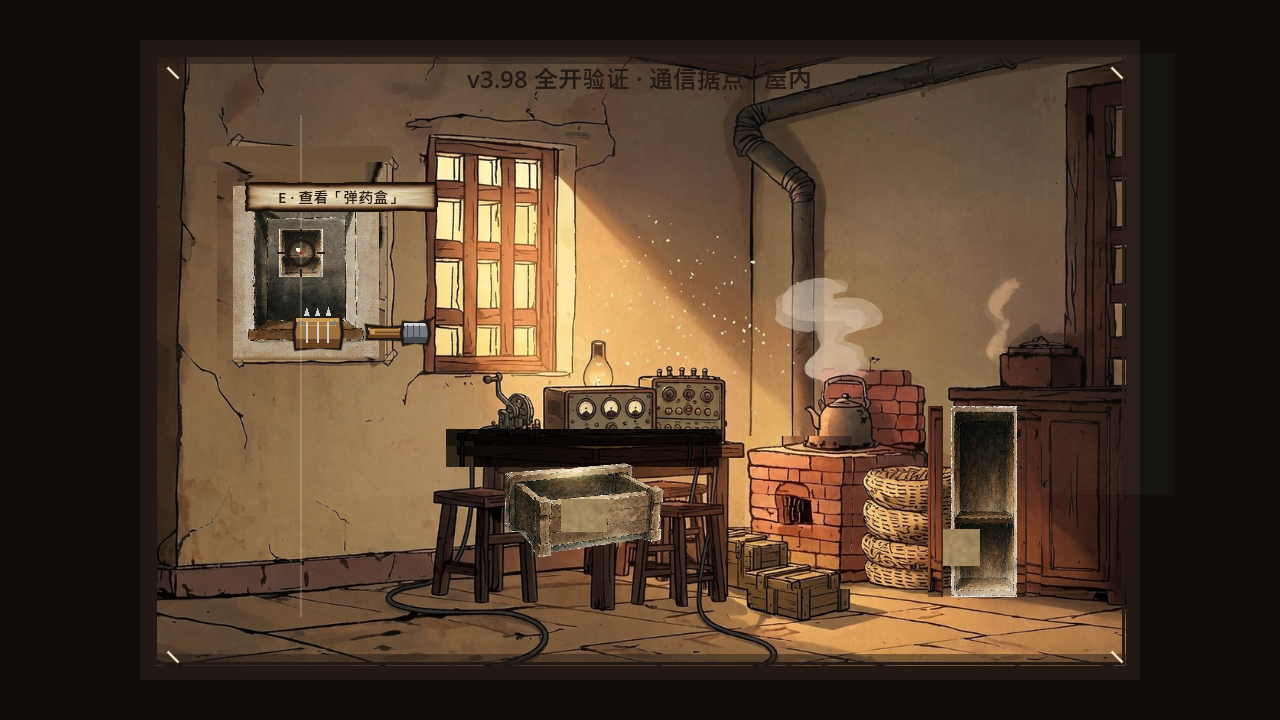
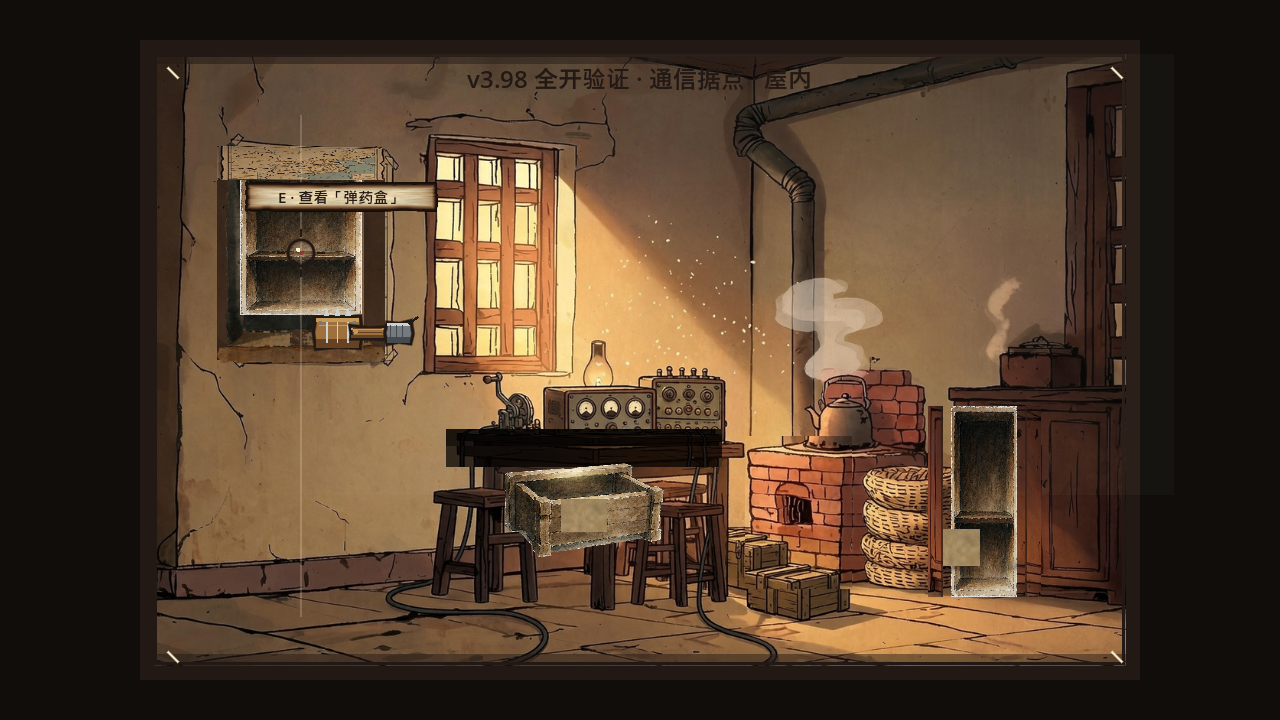
v4.00 挂画三点反馈修正：天杆对齐 + 整幅等比压缩成一卷使天杆地杆黏合 + 纯洞贴图消除长方格色差

Changed region(s): [[0.1562, 0.1833, 0.3438, 0.5194]]

diff --git a/scripts/InteriorExplore.cs b/scripts/InteriorExplore.cs
@@ -981,6 +981,10 @@ public partial class InteriorForeground : Control
     private static Texture2D _wallNicheTex;
     private static Texture2D _drawerBoxTex;
     private static Texture2D _cabinetInteriorTex;
+    // v4.00：纯洞体贴图（从 wall_niche 抠掉外围浅米墙底纸，只留墙上凿出的洞）。
+    // 用户反馈：整张 wall_niche 铺上去=暖黄墙上贴了块浅米方格，违背「暗格是墙上凿的洞、跟墙一体」。
+    // 纯洞贴图直接嵌进真实墙（墙由 wallDst 1:1 采样相邻墙补齐），读作一体墙洞、无方格边。
+    private static Texture2D _wallHoleTex;
 
     public InteriorForeground(InteriorRoom room)
     {
@@ -997,6 +1001,7 @@ public partial class InteriorForeground : Control
         _shadowTex ??= GD.Load<Texture2D>("res://assets/art/interior/contact_shadow.png");
         // v3.98：开态三张真实手绘贴图（壁龛 / 抽屉盒 / 柜内），缺文件时不画、保持关态完整
         _wallNicheTex ??= GD.Load<Texture2D>("res://assets/art/interior/wall_niche.png");
+        _wallHoleTex ??= GD.Load<Texture2D>("res://assets/art/interior/wall_niche_hole.png");
         _drawerBoxTex ??= GD.Load<Texture2D>("res://assets/art/interior/drawer_box.png");
         _cabinetInteriorTex ??= GD.Load<Texture2D>("res://assets/art/interior/cabinet_interior.png");
         // v3.84：柜门 / 画心裁片直接取同一张背景贴图，不新增美术资产
@@ -1120,8 +1125,18 @@ public partial class InteriorForeground : Control
             float w = IntactSpec.TryGetValue(it.Kind, out var sp) ? sp.w : 44f;
             int rows = Mathf.CeilToInt(total / 2f);
             float spread = total <= 1 ? 0f : Mathf.Max(20f, w * 0.58f);
+            // v3.99 挂画：暗格改为画框中心一个盒子大小的洞（见 DrawPictureNiche），
+            // 落点必须同步到「新洞中心」且收窄横向错位，否则物品会越出洞口右侧（用户反馈）。
+            if (!IsBurnt && f.Type == FurnitureType.PictureFrame
+                && FrontSrc.TryGetValue((_room.Type, FurnitureType.PictureFrame), out var psrc))
+            {
+                var frameDst = BgRect(psrc);
+                rc = new Vector2(frameDst.Position.X + frameDst.Size.X * 0.5f,
+                                 frameDst.Position.Y + frameDst.Size.Y * 0.5f);
+                spread = total <= 1 ? 0f : Mathf.Min(16f, frameDst.Size.X * 0.14f);
+            }
             Vector2 p = rc + new Vector2((k % 2 == 0 ? -spread : spread),
-                                         (k / 2 - (rows - 1) * 0.5f) * 30f);
+                                         (k / 2 - (rows - 1) * 0.5f) * 26f);
             // 柜子：物品落底层（隔板以下），不顶第二层底
             if (!IsBurnt && f.Type == FurnitureType.Cabinet)
             {
@@ -1317,6 +1332,34 @@ public partial class InteriorForeground : Control
             ? new Rect2(45f, 210f, 65f, 250f)
             : new Rect2(90f, 150f, 80f, 320f);
 
+    /// <summary>v4.00：卷起挂画后，用「画框紧邻的真实墙」1:1 采样覆盖背景里画死的静止画。
+    /// 旧做法 WallPatchSrc 取 65×250 / 80×320 小块「拉伸」铺满整框，纹理密度被放大、又乘 0.95 压暗，
+    /// 与四周墙形成明显色差的长方格（用户 img4）。改为从框外同高墙带 1:1 平铺（不缩放不压暗），
+    /// 上下边缘羽化，读作同一面墙的延续、无色差方格边。</summary>
+    private void DrawWallCover(Rect2 dst, Rect2 frameSrc)
+    {
+        if (_roomTex == null || dst.Size.X <= 1f || dst.Size.Y <= 1f) return;
+        // 采样带：画框紧邻的干净真墙，高度与画框等高 ⇒ 纵向 1:1（不拉伸、不变纹理密度）。
+        // 住家框 src.x=190 宽140 → 取左侧 x44..140；据点框 src.x=100 宽220 → 取左侧 x2..98。
+        // 横向不够宽则多片平铺；源带不压暗（1.0f），与四周墙同色温，杜绝色差方格。
+        float sw = 96f;
+        Rect2 band = _room.Type == RoomType.CommOutpost
+            ? new Rect2(2f, 120f, sw, frameSrc.Size.Y)
+            : new Rect2(44f, 60f, sw, frameSrc.Size.Y);
+        float tileW = sw * InteriorRoom.BgScale;          // 每片覆盖的画布宽
+        int nx = Mathf.Max(1, Mathf.CeilToInt(dst.Size.X / tileW));
+        for (int ix = 0; ix < nx; ix++)
+        {
+            float cx = dst.Position.X + ix * tileW;
+            float cw = Mathf.Min(tileW, dst.Position.X + dst.Size.X - cx);
+            if (cw <= 0f) break;
+            float srcW = sw * (cw / tileW);               // 源宽按目标比例裁，保持 1:1 纹理密度
+            var srcRect = new Rect2(band.Position.X, band.Position.Y, srcW, band.Size.Y);
+            var dstRect = new Rect2(cx, dst.Position.Y, cw, dst.Size.Y);
+            DrawTextureRectRegion(_roomTex, dstRect, srcRect, new Color(1f, 1f, 1f, 1f));
+        }
+    }
+
     /// <summary>桌子「抽屉」拉出量：把自身桌裙纹理向下平移的距离。
     /// DrawFurnitureFront 与 DrawContainerItems 共用，避免两处公式漂移导致物品落点错位。</summary>
     private float DeskPullH(Furniture f, Rect2 dd)
@@ -1345,30 +1388,49 @@ public partial class InteriorForeground : Control
         return new Rect2(x, top, boxW, boxHeight);
     }
 
-    /// <summary>v3.98：挂画后的壁龛 = 真实手绘贴图 wall_niche（互动卷起后显现，不再是程序化平涂方块）。
-    /// 用户拍板 B 方案：贴图铺在整幅画框背后、边缘渐隐融入手绘墙，龛口正对藏物落点。
-    /// 暗格藏 ≥2 件时在龛内叠一张缩小的 cabinet_interior 双格内衬 = 「里面有多样物品不止一样」。</summary>
+    /// <summary>v3.99：挂画后的暗格 = 墙上凿出的「一个盒子大小」的洞，不再是铺满画框的竖长深井。
+    /// 用户 2026-11-15：暗格空间不用那么长那么大、约一个中性盒子的长度即可、宽度没问题。
+    /// 暗格藏 ≥2 件时在洞内叠一张缩小的 cabinet_interior 双格内衬 = 「里面有多样物品不止一样」。</summary>
     private void DrawPictureNiche(Furniture f, Rect2 r, float a)
     {
-        // 龛贴图铺在「整个画框」背后：wall_niche 自带墙面 + 凹龛，边缘已渐隐，
-        // 既能盖掉背景贴图里画死的静止画，又与四周手绘墙同笔触（用户：纯色 vs 手绘格格不入）。
         if (FrontSrc.TryGetValue((_room.Type, FurnitureType.PictureFrame), out var psrc))
         {
             var frameDst = BgRect(psrc);
-            if (_wallNicheTex != null)
-                DrawTextureRect(_wallNicheTex, frameDst, false, new Color(1f, 1f, 1f, a));
+            // 宽度沿用整个画框宽（用户：宽度没问题）；高度收到「一个盒子长度」= 宽×1.32，
+            // 以画框中心定位 ⇒ 挂画放下时能被完整遮住、卷起时正对藏物落点。
+            // 不再把 793×1137 的贴图铺满 140×460 的画框（那会把洞口拉成 3.5:1 的深井）。
+            float boxW = frameDst.Size.X;
+            float boxH = boxW * 1.32f;
+            var box = new Rect2(frameDst.Position.X,
+                                frameDst.Position.Y + (frameDst.Size.Y - boxH) * 0.5f,
+                                boxW, boxH);
+            // v4.00：改用「纯洞体」贴图 —— wall_niche 原图自带一整圈浅米墙底纸，整张铺上去
+            // 等于在暖黄墙上贴了块浅米方格（用户 img4：长方格颜色跟墙明显不同、格格不入）。
+            // wall_niche_hole 已离线抠掉纸底、只留墙上凿出的洞；外围露出的墙由 wallDst 1:1 采样
+            // 相邻真墙补齐 ⇒ 洞与墙一体，无方格边。box 比贴图 bbox 略放大以贴合洞口实际占比。
+            if (_wallHoleTex != null)
+            {
+                // 贴图洞体 bbox 约为整张 x[149..688]/793, y[314..1031]/1137 → 居中裁掉透明边再铺进 box
+                var holeSrc = new Rect2(149f, 314f, 688f - 149f, 1031f - 314f);
+                DrawTextureRectRegion(_wallHoleTex, box, holeSrc, new Color(1f, 1f, 1f, a));
+            }
+            else if (_wallNicheTex != null)
+                DrawTextureRect(_wallNicheTex, box, false, new Color(1f, 1f, 1f, a));
             else
-                DrawTexRecess(frameDst, WallPatchSrc(), 0.5f, a); // 贴图缺失兜底
-        }
-        // 多物品语义：暗格藏 ≥2 件 → 龛内叠缩小的双格柜内贴图，读作「多格、多样物品」。
-        int cnt = 0;
-        foreach (var it in _room.Items)
-            if (it.Mode == RoomItemMode.Container && it.ContainerId == f.Id) cnt++;
-        if (cnt >= 2 && _cabinetInteriorTex != null && _wallNicheTex != null)
-        {
-            var inner = new Rect2(r.Position.X + r.Size.X * 0.10f, r.Position.Y + r.Size.Y * 0.08f,
-                                  r.Size.X * 0.80f, r.Size.Y * 0.84f);
-            DrawTextureRect(_cabinetInteriorTex, inner, false, new Color(1f, 1f, 1f, 0.92f * a));
+                DrawTexRecess(box, WallPatchSrc(), 0.5f, a); // 贴图缺失兜底
+
+            // 多物品语义：暗格藏 ≥2 件 → 洞内叠缩小的双格柜内贴图，读作「多格、多样物品」。
+            // 内衬落在盒子中央、比盒子小一圈，不再用画框中心的 r（那是另一个坐标系的小矩形）。
+            int cnt = 0;
+            foreach (var it in _room.Items)
+                if (it.Mode == RoomItemMode.Container && it.ContainerId == f.Id) cnt++;
+            if (cnt >= 2 && _cabinetInteriorTex != null && _wallNicheTex != null)
+            {
+                var inner = new Rect2(box.Position.X + box.Size.X * 0.14f,
+                                      box.Position.Y + box.Size.Y * 0.14f,
+                                      box.Size.X * 0.72f, box.Size.Y * 0.64f);
+                DrawTextureRect(_cabinetInteriorTex, inner, false, new Color(1f, 1f, 1f, 0.90f * a));
+            }
         }
     }
 
@@ -1391,12 +1453,12 @@ public partial class InteriorForeground : Control
             if (FrontSrc.TryGetValue((_room.Type, f.Type), out var psrc))
             {
                 var pdst = BgRect(psrc);
-                float visibleH = pdst.Size.Y * (1f - f.OpenT);
-                var wallDst = new Rect2(pdst.Position.X, pdst.Position.Y + visibleH,
-                                        pdst.Size.X, pdst.Size.Y - visibleH);
-                // v3.96：卷起后露出的墙用「手绘墙纹理」覆盖（而非平涂墙色），彻底盖掉背景里那幅静止的画，
-                // 且与周围墙同质感（用户：纯色块与手绘墙格格不入）
-                DrawTexRecess(wallDst, WallPatchSrc(), 0.95f, 1f);
+                // v4.00：卷起后露出的墙 = 画框下方那段（框顶到卷轴下缘之下）。
+                // 旧做法从 80×320 小块「拉伸+0.95压暗」铺满 ⇒ 与四周墙色差明显（用户 img4 长方格）。
+                // 改为整框范围用相邻真墙 1:1 平铺、不压暗；上方会被卷起的卷轴盖住，只露出墙的部分无色差。
+                var wallDst = new Rect2(pdst.Position.X, pdst.Position.Y,
+                                        pdst.Size.X, pdst.Size.Y);
+                DrawWallCover(wallDst, psrc);
             }
             // v3.98：画后壁龛改用真实手绘贴图 wall_niche（互动卷起后随 OpenT 显现、边缘渐隐融入墙）；
             // 暗格藏 ≥2 件时在龛内叠 cabinet_interior 双格内衬，表示「里面有多样物品不止一样」。
@@ -1478,33 +1540,19 @@ public partial class InteriorForeground : Control
 
         if (f.Type == FurnitureType.PictureFrame)
         {
-            // v3.92 挂画「往上卷」：画心自底部向上卷入，底部卷口（横向卷轴）随卷起上升；
-            // ot→1 时整幅卷起、卷轴停在框顶，只留暗格（暗格由 DrawFurnitureBody 已画在底层）。
-            // 用户 2026-11-13：「挂画掀开是拨开的意思或者将画往上卷才会看到暗格」。
+            // v4.00 挂画物理卷轴模型（用户 2026-11-15 img1/2/3 反馈）：
+            // 用户原话「天杆和地杆是黏在一起了吧，因为挂画的画部分是卷起来的状态」。
+            // 真实挂轴上卷 = 整幅画(天杆+画心+地杆)从下往上收拢，最终卷成「一根卷轴」挂在天杆处；
+            // 卷起态画面 = 细天杆 + 紧贴其下的一卷压缩画(内含地杆圆轴头)，只有一组、无第二根杆。
+            // 实现：整张 src 等比压缩到"剩余高度"里 —— ot=0 满幅 H，ot=1 压到一卷厚度 rollH。
+            // 这样天杆/画心/地杆随压缩自然挤到一起，地杆圆轴头始终在卷底，零拼缝、零程序化纯色。
             if (mirror) DrawSetTransformMatrix(mirrorM);
-            float visibleH = dst.Size.Y * (1f - ot);
-            float rollH = Mathf.Min(dst.Size.Y * 0.11f, 16f);
-            if (visibleH > 1f)
-            {
-                var dDst = new Rect2(dst.Position.X, dst.Position.Y, dst.Size.X, visibleH);
-                var dSrc = new Rect2(src.Position.X, src.Position.Y, src.Size.X, src.Size.Y * (1f - ot));
-                DrawTextureRectRegion(_roomTex, dDst, dSrc, new Color(1f, 1f, 1f, 1f));
-                // 卷口：在仍可见画心的下缘画一截横向卷轴（矩形+两端圆角），读作「往上卷」
-                float cy = dst.Position.Y + visibleH;
-                DrawRect(new Rect2(dst.Position.X, cy - rollH * 0.5f, dst.Size.X, rollH),
-                         new Color(0.42f, 0.32f, 0.22f, 0.95f));
-                DrawCircle(new Vector2(dst.Position.X, cy), rollH * 0.5f, new Color(0.42f, 0.32f, 0.22f, 0.95f));
-                DrawCircle(new Vector2(dst.Position.X + dst.Size.X, cy), rollH * 0.5f, new Color(0.42f, 0.32f, 0.22f, 0.95f));
-            }
-            else
-            {
-                // 完全卷起：卷轴停在框顶，框内只剩暗格（仍读作「画已卷上去」）
-                float cy = dst.Position.Y + rollH * 0.5f;
-                DrawRect(new Rect2(dst.Position.X, cy - rollH * 0.5f, dst.Size.X, rollH),
-                         new Color(0.42f, 0.32f, 0.22f, 0.95f));
-                DrawCircle(new Vector2(dst.Position.X, cy), rollH * 0.5f, new Color(0.42f, 0.32f, 0.22f, 0.95f));
-                DrawCircle(new Vector2(dst.Position.X + dst.Size.X, cy), rollH * 0.5f, new Color(0.42f, 0.32f, 0.22f, 0.95f));
-            }
+            float H = dst.Size.Y, W = dst.Size.X, top = dst.Position.Y, left = dst.Position.X;
+            float rollH = H * 0.16f;                       // 全开时一卷的厚度(含天杆与地杆轴头)
+            float shownH = Mathf.Lerp(H, rollH, ot);       // 可见画幅：满幅 → 一卷
+            var shownDst = new Rect2(left, top, W, shownH);
+            // 源整幅等比压到 shownH：源始终取全幅，故天杆在上、画心居中、地杆轴头在下都保留。
+            DrawTextureRectRegion(_roomTex, shownDst, src, new Color(1f, 1f, 1f, 1f));
             if (mirror) DrawSetTransformMatrix(Transform2D.Identity);
             return;
         }

diff --git a/tools/bridge_restyle/make_hole_only.py b/tools/bridge_restyle/make_hole_only.py
@@ -1,0 +1,44 @@
+"""从 wall_niche.png 抠出「纯洞体」：去掉外围那一整圈浅米墙底纸，只留墙上凿出的洞
+（深色透视斜面 + 洞口勾边 + 底部窗台横条），使洞直接嵌进游戏真实墙、读作成一体的墙洞。
+
+原理：浅米纸底亮度约 105-180，洞体（深灰斜面/近黑洞底）亮度约 60-100，分离明显。
+按亮度把纸底 alpha 归零，保留洞体；2px erode 去残留米边，再轻羽化。零外部依赖。
+"""
+from PIL import Image, ImageFilter
+import numpy as np
+
+SRC = "assets/art/interior/wall_niche.png"
+OUT = "tools/bridge_restyle/previews/wall_niche_hole_only.png"
+
+im = Image.open(SRC).convert("RGBA")
+a = np.asarray(im).astype(np.int16)
+rgb, alpha = a[:, :, :3], a[:, :, 3]
+bright = rgb.mean(2)
+
+# 浅米纸底：亮度>=104 一律抠掉（洞体深色/灰斜面保留）
+paper = (bright >= 104) & (alpha > 20)
+out = np.asarray(im).copy()
+out[paper, 3] = 0
+
+# 向外腐蚀 2px（把洞体边缘粘连的米色去掉）
+keep = out[:, :, 3] > 20
+erode = keep.copy()
+for dy in (-2, -1, 1, 2):
+    for dx in (-2, -1, 1, 2):
+        if dx == 0 and dy == 0:
+            continue
+        shifted = np.zeros_like(keep)
+        y0, y1 = max(0, dy), min(keep.shape[0], keep.shape[0] + dy)
+        x0, x1 = max(0, dx), min(keep.shape[1], keep.shape[1] + dx)
+        shifted[y0:y1, x0:x1] = keep[y0 - dy:y1 - dy, x0 - dx:x1 - dx]
+        erode &= shifted
+out[~erode, 3] = 0
+
+res = Image.fromarray(out)
+res = res.filter(ImageFilter.GaussianBlur(1.0))
+res.save(OUT)
+
+al = np.asarray(res)[:, :, 3]
+ys, xs = np.where(al > 60)
+print("src", (im.size), "->", OUT)
+print("kept frac=%.3f  bbox x[%d..%d] y[%d..%d]" % ((al > 60).mean(), xs.min(), xs.max(), ys.min(), ys.max()))
